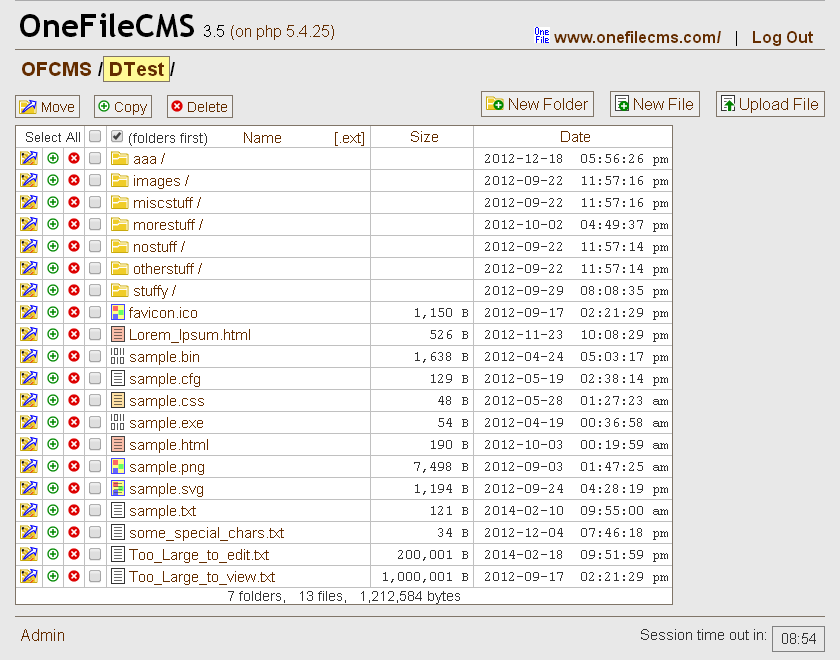
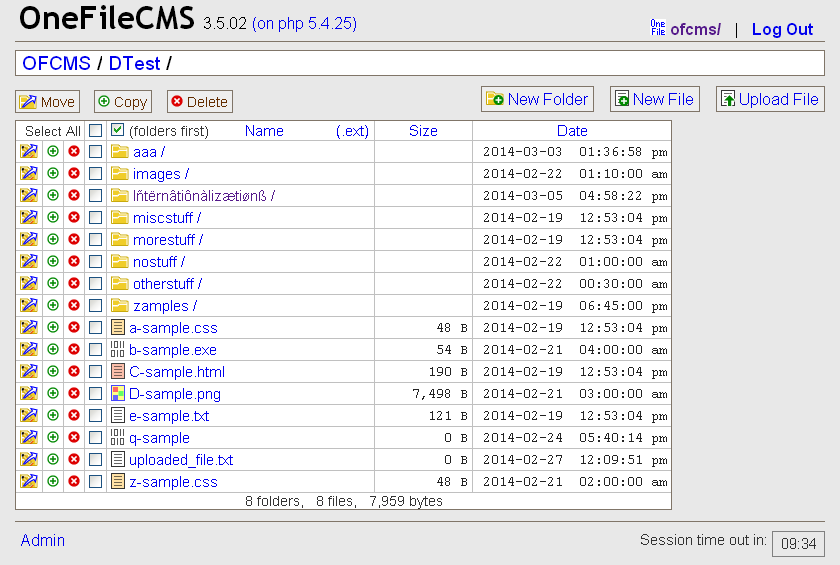
Updated logs & screenshot. v3.5.02

Changed region(s): [[0.0, 0.0, 0.9905, 0.9929]]

diff --git a/changelog.html b/changelog.html
@@ -1,15 +1,24 @@
 <h1>OneFileCMS Change Log</h1>
 
+<h3>v3.5.02 (March 6, 2014)</h3>
+
+<ul>
+<li>OneFileCMS can now work with non-ASCII filenames.</li>
+<li>(But, OneFileCMS itself can not be named with non-ASCII characters. I don't know why.)</li>
+<li>Increased $PRE_ITERATIONS from 200 to 1000.  This will affect, at least, older IE's, and maybe other browsers as well. For instance, it takes IE8 37 times longer to perform the "pre-iterations" than Firefox.  In anycase, it can, of course, be changed back if needed. <br />
+(However, OneFileCMS does not currenly work in IE, so it's kinda academic for now.)</li>
+<li>Some css tweaks &amp; improvements.</li>
+</ul>
+
 <h3>v3.5.01 (February 22, 2014)</h3>
 
 <ul>
 <li>Mostly behind the scenes stuff...</li>
-<li>Replaced use of htmlentities() (hte()) with htmlspecialchars() (hsc()).  With UTF-8, htmlentites() is superluous.</li>
+<li>Replaced use of htmlentities() with htmlspecialchars().  With UTF-8, htmlentites() is superfluous.</li>
 <li>Added hsc() to s number of strings where should have already been.</li>
 <li>Changed directory sort function a bit. Note: when selecting/deselecting the 'folders first' option, the primary sort will be the last sorted column.</li>
-<li>Split out a new function, Send<em>data</em>to<em>js(), from Index</em>Page().</li>
-<li>Also, in prep for an upcoming update, tagged several places (with //##### ) where file system calls are made. The $filename strings used in the calls may need to be encoded with something   other than UTF-8, depending on the underlying OS's filesystem. 
-(such as NTFS, which uses UTF-16)</li>
+<li>Split out a new function, Send_data_to_js(), from Index_Page().</li>
+<li>Also, in prep for an upcoming update, tagged several places (with //##### ) where file system calls are made. The $filename strings used in the calls may need to be encoded with something other than UTF-8, depending on the underlying OS's filesystem. (such as NTFS, which uses UTF-16)</li>
 </ul>
 
 <h3>v3.5 (February 19, 2014)</h3>
@@ -20,7 +29,7 @@
 <li>In accomplishing the above, most sorting moved client side.  This permits resorts without another server hit.</li>
 <li>Added &amp; tweaked some css...</li>
 <li>Slight restructure of the repo (ie: move a few "extras" files around).</li>
-<li>NOTE:  versions 3.4.23 &amp; 3.4.24 DO NOT WORK IN IE!  I don't know why yet, mostly likely js related.</li>
+<li>NOTE:  versions 3.4.23 and later DO NOT WORK IN IE!  I don't know why yet, mostly likely js related.</li>
 </ul>
 
 <h3>v3.4.23 (February 12, 2014)</h3>
